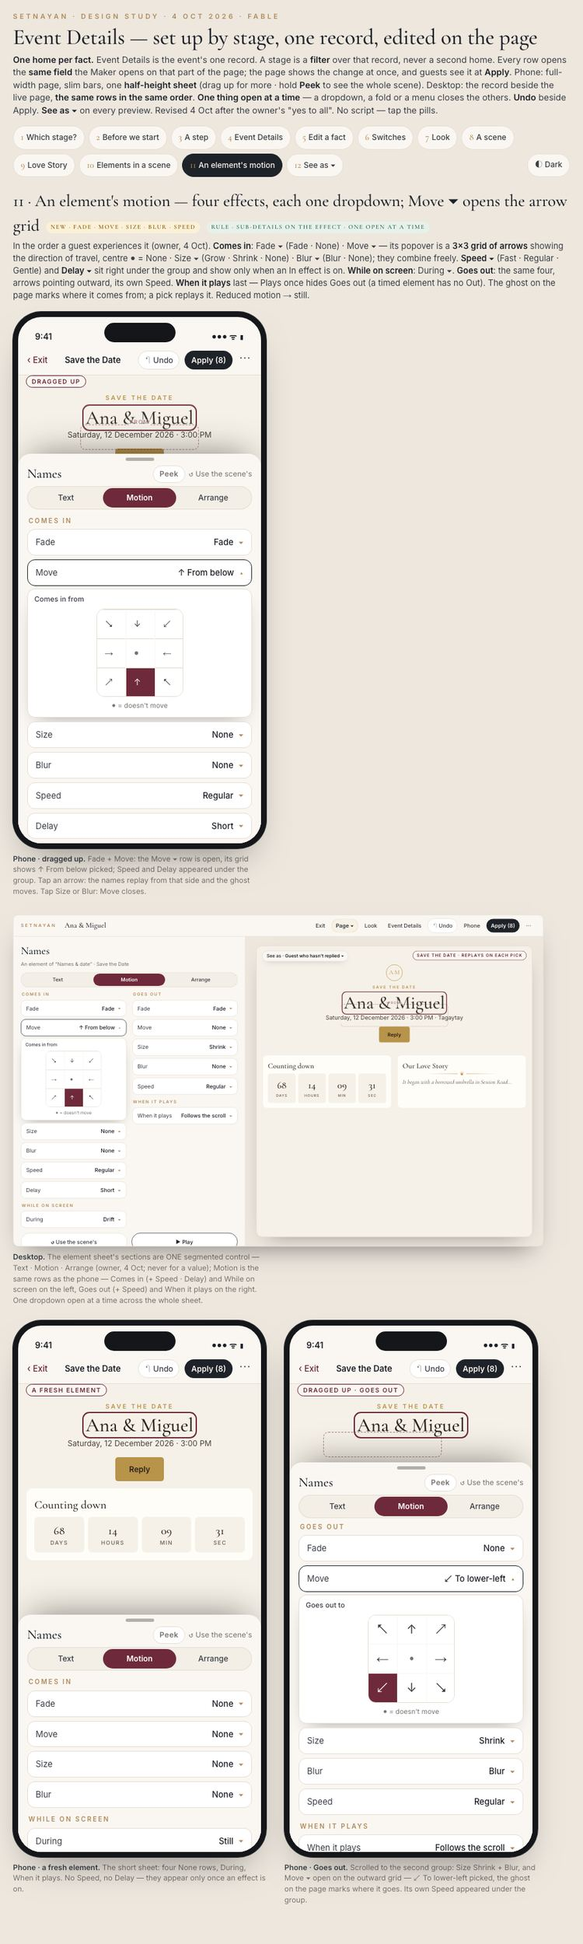
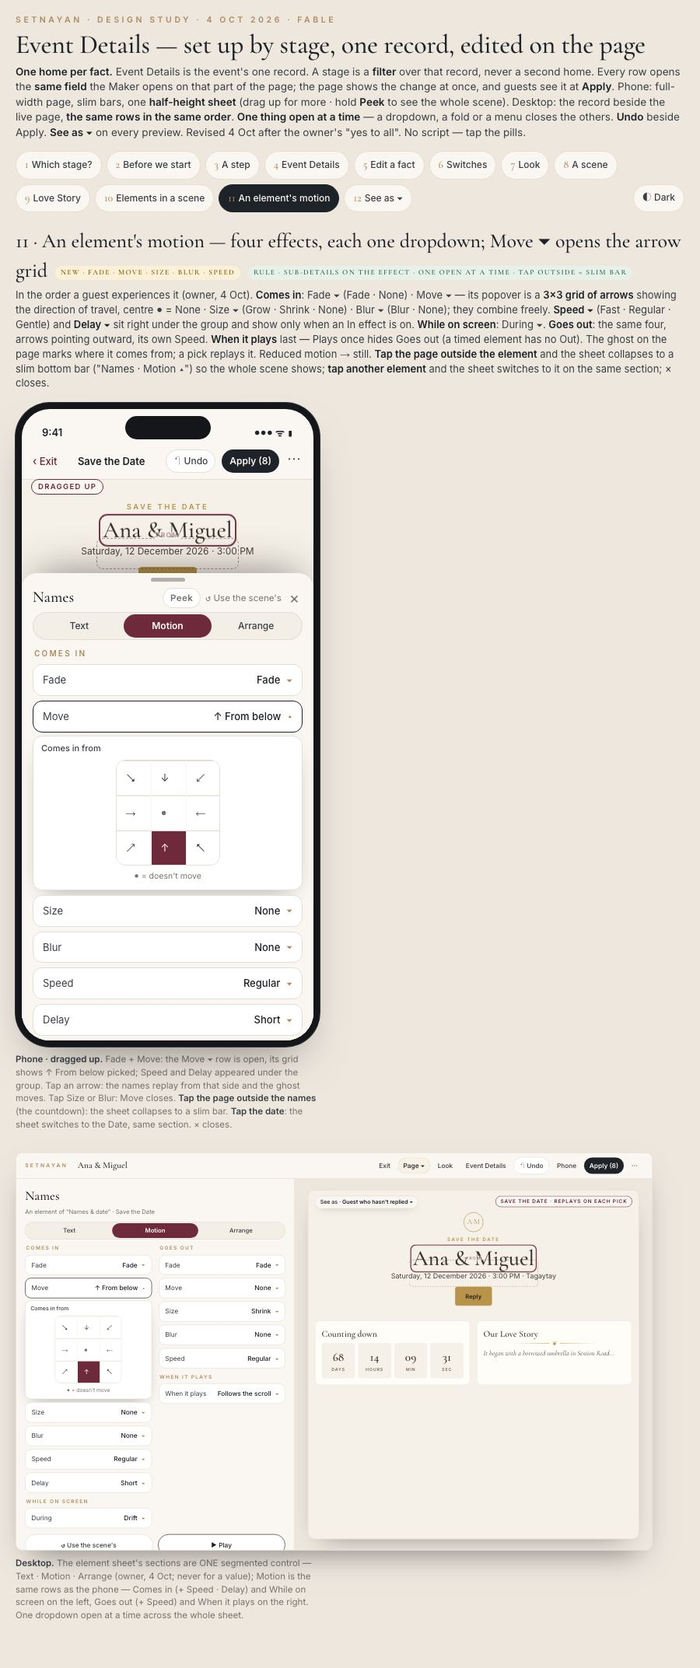
design: element sheet collapses to a slim bar on tap-outside, switches on tap of another element; screen 11 images split

Changed region(s): [[0.0, 0.0, 0.9813, 0.9995]]

diff --git a/prototypes/event_details_improved_2026-10-04_fable.html b/prototypes/event_details_improved_2026-10-04_fable.html
@@ -83,6 +83,20 @@ h1{font-family:var(--serif);font-weight:500;font-size:34px;line-height:1.1;margi
 .mgrp{font-size:10px;letter-spacing:.22em;text-transform:uppercase;color:var(--gild);font-weight:600;margin:10px 2px 0}
 .mgrp:first-of-type{margin-top:4px}
 .outnote{font-size:12px;color:var(--mute);padding:8px 2px 0;font-style:italic}
+/* element sheet states (owner, 4 Oct): tap the page outside the element → the sheet collapses to a slim bottom bar ("Names · Motion ▴")
+   and the whole scene shows; tap another element → the sheet switches to it, same section; × closes. CSS-only: one radio group (es). */
+.cbar{display:none;position:absolute;left:0;right:0;bottom:0;z-index:7;background:var(--paper);border-top:1px solid var(--line);padding:10px 14px 26px;align-items:center;justify-content:space-between;font-size:13px;font-weight:500;box-shadow:0 -10px 30px -16px rgba(0,0,0,.4);border-radius:16px 16px 0 0}
+.cbar>label,.cbar>span{cursor:pointer}
+.cbar b{font-family:var(--serif);font-size:18px;font-weight:500}
+.cbar .x,.sheet .x{color:var(--mute);font-size:20px;line-height:1;padding:0 4px;cursor:pointer}
+.tapout{position:absolute;inset:0;cursor:pointer;z-index:2}
+.sheet.el2{display:none}
+#es0:checked ~ main .scr11 .sheet.el1,#es2:checked ~ main .scr11 .sheet.el1,#es3:checked ~ main .scr11 .sheet.el1{display:none}
+#es0:checked ~ main .scr11 .cbar{display:flex}
+#es2:checked ~ main .scr11 .sheet.el2{display:block}
+#es2:checked ~ main .scr11 .mo.sel,#es3:checked ~ main .scr11 .mo.sel{outline:none}
+#es2:checked ~ main .scr11 .mo .gh{opacity:0}
+#es2:checked ~ main .scr11 .dsel{outline:2px solid var(--wine);outline-offset:3px;border-radius:6px}
 .seg{display:flex;background:var(--paper2);border-radius:999px;padding:3px;margin:4px 0 6px;box-shadow:inset 0 0 0 1px var(--line)}
 .seg span{flex:1;text-align:center;font-size:12px;font-weight:500;padding:6px 8px;border-radius:999px;color:var(--ink2);cursor:pointer;min-height:30px}
 .seg span.on{background:var(--wine);color:#fff;font-weight:600}
@@ -455,6 +469,8 @@ h2{font-family:var(--serif);font-weight:500;font-size:26px;margin:0 0 4px;letter
 <input class="sw" type="radio" name="o6" id="o6-howguestsget"><input class="sw" type="radio" name="o7" id="o7-theme"><input class="sw" type="radio" name="o7" id="o7-font"><input class="sw" type="radio" name="o7" id="o7-buttonsnew"><input class="sw" type="radio" name="o7" id="o7-betweenscene"><input class="sw" type="radio" name="o8" id="o8-style"><input class="sw" type="radio" name="o8" id="o8-background"><input class="sw" type="radio" name="o8" id="o8-width"><input class="sw" type="radio" name="o8" id="o8-motion"><input class="sw" type="radio" name="o8" id="o8-intothenexts"><input class="sw" type="radio" name="o11" id="o11-fade"><input class="sw" type="radio" name="o11" id="o11-move" checked><input class="sw" type="radio" name="o11" id="o11-size"><input class="sw" type="radio" name="o11" id="o11-blur"><input class="sw" type="radio" name="o11" id="o11-spd"><input class="sw" type="radio" name="o11" id="o11-delay"><input class="sw" type="radio" name="o11" id="o11-during"><input class="sw" type="radio" name="o11" id="o11-ofade"><input class="sw" type="radio" name="o11" id="o11-omove"><input class="sw" type="radio" name="o11" id="o11-osize"><input class="sw" type="radio" name="o11" id="o11-oblur"><input class="sw" type="radio" name="o11" id="o11-ospd"><input class="sw" type="radio" name="o11" id="o11-when">
 <input class="sw" type="radio" name="dl" id="dl0"><input class="sw" type="radio" name="dl" id="dl1" checked><input class="sw" type="radio" name="dl" id="dl2"><input class="sw" type="radio" name="du" id="du1"><input class="sw" type="radio" name="du" id="du2" checked><input class="sw" type="radio" name="wp" id="wp1"><input class="sw" type="radio" name="wp" id="wp2" checked><input class="sw" type="radio" name="osp" id="osp1"><input class="sw" type="radio" name="osp" id="osp2" checked><input class="sw" type="radio" name="osp" id="osp3">
 <input class="sw" type="radio" name="o3" id="o3-0"><input class="sw" type="radio" name="o3" id="o3-ceremony" checked><input class="sw" type="radio" name="o5" id="o5-0"><input class="sw" type="radio" name="o5" id="o5-venue" checked>
+<!-- the element sheet: open · collapsed bar · switched to the Date · closed -->
+<input class="sw" type="radio" name="es" id="es1" checked><input class="sw" type="radio" name="es" id="es0"><input class="sw" type="radio" name="es" id="es2"><input class="sw" type="radio" name="es" id="es3">
 <!-- Event Details folds: one open at a time -->
 <input class="sw" type="radio" name="g4" id="g40"><input class="sw" type="radio" name="g4" id="g4l" checked><input class="sw" type="radio" name="g4" id="g4w"><input class="sw" type="radio" name="g4" id="g4e"><input class="sw" type="radio" name="g4" id="g4m">
 <!-- See as ▾ : the preview as one guest -->
@@ -1162,27 +1178,33 @@ h2{font-family:var(--serif);font-weight:500;font-size:26px;margin:0 0 4px;letter
 
 <!-- ============================== 11 · AN ELEMENT'S MOTION ============================== -->
 <section class="scr scr11">
-<h2>11 · An element's motion — four effects, each one dropdown; Move ▾ opens the arrow grid <span class="new">new · Fade · Move · Size · Blur · Speed</span> <span class="rl">rule · sub-details on the effect · one open at a time</span></h2>
-<p class="why">In the order a guest experiences it (owner, 4 Oct). <b>Comes in</b>: Fade ▾ (Fade · None) · Move ▾ — its popover is a <b>3×3 grid of arrows</b> showing the direction of travel, centre ● = None · Size ▾ (Grow · Shrink · None) · Blur ▾ (Blur · None); they combine freely. <b>Speed ▾</b> (Fast · Regular · Gentle) and <b>Delay ▾</b> sit right under the group and show only when an In effect is on. <b>While on screen</b>: During ▾. <b>Goes out</b>: the same four, arrows pointing outward, its own Speed. <b>When it plays</b> last — Plays once hides Goes out (a timed element has no Out). The ghost on the page marks where it comes from; a pick replays it. Reduced motion → still.</p>
+<h2>11 · An element's motion — four effects, each one dropdown; Move ▾ opens the arrow grid <span class="new">new · Fade · Move · Size · Blur · Speed</span> <span class="rl">rule · sub-details on the effect · one open at a time · tap outside = slim bar</span></h2>
+<p class="why">In the order a guest experiences it (owner, 4 Oct). <b>Comes in</b>: Fade ▾ (Fade · None) · Move ▾ — its popover is a <b>3×3 grid of arrows</b> showing the direction of travel, centre ● = None · Size ▾ (Grow · Shrink · None) · Blur ▾ (Blur · None); they combine freely. <b>Speed ▾</b> (Fast · Regular · Gentle) and <b>Delay ▾</b> sit right under the group and show only when an In effect is on. <b>While on screen</b>: During ▾. <b>Goes out</b>: the same four, arrows pointing outward, its own Speed. <b>When it plays</b> last — Plays once hides Goes out (a timed element has no Out). The ghost on the page marks where it comes from; a pick replays it. Reduced motion → still. <b>Tap the page outside the element</b> and the sheet collapses to a slim bottom bar ("Names · Motion ▴") so the whole scene shows; <b>tap another element</b> and the sheet switches to it on the same section; × closes.</p>
 <div class="pair">
 <div>
 <div class="ph"><div class="isl"></div><div class="st"><span>9:41</span><span>●●● ᯤ ▮</span></div>
   <div class="bar"><span class="bk">‹ Exit</span><span class="ti">Save the Date</span><span class="und">↶ Undo</span><span class="ap">Apply (8)</span><span class="more">⋯</span></div>
   <span class="statetag" style="top:96px">dragged up</span>
   <div class="cv" style="height:calc(100% - 46px - 41px)">
-    <div class="hero" style="padding:28px 16px 10px"><div class="ey">Save the date</div><div class="nm el sel mo">Ana &amp; Miguel<span class="gh"></span></div><div class="dl">Saturday, 12 December 2026 · <span class="tmv tm1">2:00 PM</span><span class="tmv tm2">3:00 PM</span><span class="tmv tm3">3:30 PM</span><span class="tmv tm4">4:00 PM</span></div><div class="rb needreply">Reply</div></div>
-    <div class="sc cdscene"><div class="t">Counting down</div><div class="tiles"><b>68<small>days</small></b><b>14<small>hours</small></b><b>09<small>min</small></b><b>31<small>sec</small></b></div></div>
+    <div class="hero" style="padding:28px 16px 10px"><div class="ey">Save the date</div><div class="nm el sel mo">Ana &amp; Miguel<span class="gh"></span></div><div class="dl"><label class="el dsel" for="es2" title="Tap another element: the sheet switches to it">Saturday, 12 December 2026</label> · <span class="tmv tm1">2:00 PM</span><span class="tmv tm2">3:00 PM</span><span class="tmv tm3">3:30 PM</span><span class="tmv tm4">4:00 PM</span></div><div class="rb needreply">Reply</div></div>
+    <div class="sc cdscene" style="position:relative"><label class="tapout" for="es0" aria-label="Tap the page outside the element"></label><div class="t">Counting down</div><div class="tiles"><b>68<small>days</small></b><b>14<small>hours</small></b><b>09<small>min</small></b><b>31<small>sec</small></b></div></div>
+    <div class="sc" style="position:relative"><label class="tapout" for="es0" aria-label="Tap the page outside the element"></label><div class="t">Our Love Story</div><div class="orn"></div><div class="teaser">It began with a borrowed umbrella in Session Road…</div></div>
   </div>
-  <div class="sheet up">
+  <div class="cbar"><label for="es1"><b>Names</b> · Motion ▴</label><label class="x" for="es3" aria-label="Close">×</label></div>
+  <div class="sheet el2">
     <div class="grip"></div>
-    <div class="h"><b>Names</b><span class="hr"><span class="peek">Peek</span><span class="reset">↺ Use the scene's</span></span></div><div class="seg" role="tablist"><span>Text</span><span class="on">Motion</span><span>Arrange</span></div>
+    <div class="h"><b>Date</b><span class="hr"><span class="peek">Peek</span><span class="reset">↺ Use the scene's</span><label class="x" for="es3" aria-label="Close">×</label></span></div><div class="seg" role="tablist"><span>Text</span><span class="on">Motion</span><span>Arrange</span></div><div class="mgrp">Comes in</div><div class="dd"><span class="sum"><span class="l">Fade</span><span class="v">None</span></span></div><div class="dd"><span class="sum"><span class="l">Move</span><span class="v">None</span></span></div><div class="dd"><span class="sum"><span class="l">Size</span><span class="v">None</span></span></div><div class="dd"><span class="sum"><span class="l">Blur</span><span class="v">None</span></span></div><div class="mgrp">While on screen</div><div class="dd"><span class="sum"><span class="l">During</span><span class="v">Still</span></span></div><div class="mgrp">When it plays</div><div class="dd"><span class="sum"><span class="l">When it plays</span><span class="v">Follows the scroll</span></span></div>
+  </div>
+  <div class="sheet up el1">
+    <div class="grip"></div>
+    <div class="h"><b>Names</b><span class="hr"><span class="peek">Peek</span><span class="reset">↺ Use the scene's</span><label class="x" for="es3" aria-label="Close">×</label></span></div><div class="seg" role="tablist"><span>Text</span><span class="on">Motion</span><span>Arrange</span></div>
     <div class="mgrp">Comes in</div><div class="dd fade "><label class="sum" for="o11-fade"><span class="l">Fade</span><span class="v"><span class="mfv mf1">Fade</span><span class="mfv mf0">None</span></span></label><label class="sum cl" for="o11-0"><span class="l">Fade</span><span class="v"><span class="mfv mf1">Fade</span><span class="mfv mf0">None</span></span></label><div class="menu"><label for="mf1">Fade<span class="tick">✓</span></label><label for="mf0">None<span class="tick">✓</span></label></div></div><div class="dd move "><label class="sum" for="o11-move"><span class="l">Move</span><span class="v"><span class="mdv md0">None</span><span class="mdv md1">↘ From top-left</span><span class="mdv md2">↓ From above</span><span class="mdv md3">↙ From top-right</span><span class="mdv md4">→ From left</span><span class="mdv md5">← From right</span><span class="mdv md6">↗ From lower-left</span><span class="mdv md7">↑ From below</span><span class="mdv md8">↖ From lower-right</span></span></label><label class="sum cl" for="o11-0"><span class="l">Move</span><span class="v"><span class="mdv md0">None</span><span class="mdv md1">↘ From top-left</span><span class="mdv md2">↓ From above</span><span class="mdv md3">↙ From top-right</span><span class="mdv md4">→ From left</span><span class="mdv md5">← From right</span><span class="mdv md6">↗ From lower-left</span><span class="mdv md7">↑ From below</span><span class="mdv md8">↖ From lower-right</span></span></label><div class="menu"><div class="gw"><div class="gt">Comes in from</div><div class="dsq in"><label for="md1" class="" aria-label="↘ From top-left">↘</label><label for="md2" class="" aria-label="↓ From above">↓</label><label for="md3" class="" aria-label="↙ From top-right">↙</label><label for="md4" class="" aria-label="→ From left">→</label><label for="md0" class="c" aria-label="None">●</label><label for="md5" class="" aria-label="← From right">←</label><label for="md6" class="" aria-label="↗ From lower-left">↗</label><label for="md7" class="" aria-label="↑ From below">↑</label><label for="md8" class="" aria-label="↖ From lower-right">↖</label></div><div class="gn">● = doesn't move</div></div></div></div><div class="dd size "><label class="sum" for="o11-size"><span class="l">Size</span><span class="v"><span class="msv ms0">None</span><span class="msv ms1">Grow</span><span class="msv ms2">Shrink</span></span></label><label class="sum cl" for="o11-0"><span class="l">Size</span><span class="v"><span class="msv ms0">None</span><span class="msv ms1">Grow</span><span class="msv ms2">Shrink</span></span></label><div class="menu"><label for="ms1">Grow<span class="tick">✓</span></label><label for="ms2">Shrink<span class="tick">✓</span></label><label for="ms0">None<span class="tick">✓</span></label></div></div><div class="dd blur "><label class="sum" for="o11-blur"><span class="l">Blur</span><span class="v"><span class="mbv mb0">None</span><span class="mbv mb1">Blur</span></span></label><label class="sum cl" for="o11-0"><span class="l">Blur</span><span class="v"><span class="mbv mb0">None</span><span class="mbv mb1">Blur</span></span></label><div class="menu"><label for="mb1">Blur<span class="tick">✓</span></label><label for="mb0">None<span class="tick">✓</span></label></div></div><div class="inx"><div class="dd spd "><label class="sum" for="o11-spd"><span class="l">Speed</span><span class="v"><span class="spv sp1">Fast</span><span class="spv sp2">Regular</span><span class="spv sp3">Gentle</span></span></label><label class="sum cl" for="o11-0"><span class="l">Speed</span><span class="v"><span class="spv sp1">Fast</span><span class="spv sp2">Regular</span><span class="spv sp3">Gentle</span></span></label><div class="menu"><label for="sp1">Fast<span class="tick">✓</span></label><label for="sp2">Regular<span class="tick">✓</span></label><label for="sp3">Gentle <small>slow, eased</small><span class="tick">✓</span></label></div></div><div class="dd delay "><label class="sum" for="o11-delay"><span class="l">Delay</span><span class="v"><span class="dlv dl0">None</span><span class="dlv dl1">Short</span><span class="dlv dl2">Long</span></span></label><label class="sum cl" for="o11-0"><span class="l">Delay</span><span class="v"><span class="dlv dl0">None</span><span class="dlv dl1">Short</span><span class="dlv dl2">Long</span></span></label><div class="menu"><label for="dl0">None<span class="tick">✓</span></label><label for="dl1">Short<span class="tick">✓</span></label><label for="dl2">Long<span class="tick">✓</span></label></div></div></div>
     <div class="mgrp">While on screen</div><div class="dd during "><label class="sum" for="o11-during"><span class="l">During</span><span class="v"><span class="duv du1">Still</span><span class="duv du2">Drift</span></span></label><label class="sum cl" for="o11-0"><span class="l">During</span><span class="v"><span class="duv du1">Still</span><span class="duv du2">Drift</span></span></label><div class="menu"><label for="du1">Still<span class="tick">✓</span></label><label for="du2">Drift<span class="tick">✓</span></label><label><small>Ken Burns · Parallax — photos only</small></label></div></div>
     <div class="outg"><div class="mgrp">Goes out</div><div class="dd ofade "><label class="sum" for="o11-ofade"><span class="l">Fade</span><span class="v"><span class="ofv of1">Fade</span><span class="ofv of0">None</span></span></label><label class="sum cl" for="o11-0"><span class="l">Fade</span><span class="v"><span class="ofv of1">Fade</span><span class="ofv of0">None</span></span></label><div class="menu"><label for="of1">Fade<span class="tick">✓</span></label><label for="of0">None<span class="tick">✓</span></label></div></div><div class="dd omove "><label class="sum" for="o11-omove"><span class="l">Move</span><span class="v"><span class="odv od0">None</span><span class="odv od1">↖ To top-left</span><span class="odv od2">↑ To above</span><span class="odv od3">↗ To top-right</span><span class="odv od4">← To left</span><span class="odv od5">→ To right</span><span class="odv od6">↙ To lower-left</span><span class="odv od7">↓ To below</span><span class="odv od8">↘ To lower-right</span></span></label><label class="sum cl" for="o11-0"><span class="l">Move</span><span class="v"><span class="odv od0">None</span><span class="odv od1">↖ To top-left</span><span class="odv od2">↑ To above</span><span class="odv od3">↗ To top-right</span><span class="odv od4">← To left</span><span class="odv od5">→ To right</span><span class="odv od6">↙ To lower-left</span><span class="odv od7">↓ To below</span><span class="odv od8">↘ To lower-right</span></span></label><div class="menu"><div class="gw"><div class="gt">Goes out to</div><div class="dsq out"><label for="od1" class="" aria-label="↖ To top-left">↖</label><label for="od2" class="" aria-label="↑ To above">↑</label><label for="od3" class="" aria-label="↗ To top-right">↗</label><label for="od4" class="" aria-label="← To left">←</label><label for="od0" class="c" aria-label="None">●</label><label for="od5" class="" aria-label="→ To right">→</label><label for="od6" class="" aria-label="↙ To lower-left">↙</label><label for="od7" class="" aria-label="↓ To below">↓</label><label for="od8" class="" aria-label="↘ To lower-right">↘</label></div><div class="gn">● = doesn't move</div></div></div></div><div class="dd osize "><label class="sum" for="o11-osize"><span class="l">Size</span><span class="v"><span class="osv os0">None</span><span class="osv os1">Grow</span><span class="osv os2">Shrink</span></span></label><label class="sum cl" for="o11-0"><span class="l">Size</span><span class="v"><span class="osv os0">None</span><span class="osv os1">Grow</span><span class="osv os2">Shrink</span></span></label><div class="menu"><label for="os1">Grow<span class="tick">✓</span></label><label for="os2">Shrink<span class="tick">✓</span></label><label for="os0">None<span class="tick">✓</span></label></div></div><div class="dd oblur "><label class="sum" for="o11-oblur"><span class="l">Blur</span><span class="v"><span class="obv ob0">None</span><span class="obv ob1">Blur</span></span></label><label class="sum cl" for="o11-0"><span class="l">Blur</span><span class="v"><span class="obv ob0">None</span><span class="obv ob1">Blur</span></span></label><div class="menu"><label for="ob1">Blur<span class="tick">✓</span></label><label for="ob0">None<span class="tick">✓</span></label></div></div><div class="outx"><div class="dd ospd "><label class="sum" for="o11-ospd"><span class="l">Speed</span><span class="v"><span class="ospv osp1">Fast</span><span class="ospv osp2">Regular</span><span class="ospv osp3">Gentle</span></span></label><label class="sum cl" for="o11-0"><span class="l">Speed</span><span class="v"><span class="ospv osp1">Fast</span><span class="ospv osp2">Regular</span><span class="ospv osp3">Gentle</span></span></label><div class="menu"><label for="osp1">Fast<span class="tick">✓</span></label><label for="osp2">Regular<span class="tick">✓</span></label><label for="osp3">Gentle <small>slow, eased</small><span class="tick">✓</span></label></div></div></div></div><div class="outnote">Goes out — follows the scroll only</div>
     <div class="mgrp">When it plays</div><div class="dd when "><label class="sum" for="o11-when"><span class="l">When it plays</span><span class="v"><span class="wpv wp1">Plays once</span><span class="wpv wp2">Follows the scroll</span></span></label><label class="sum cl" for="o11-0"><span class="l">When it plays</span><span class="v"><span class="wpv wp1">Plays once</span><span class="wpv wp2">Follows the scroll</span></span></label><div class="menu"><label for="wp1">Plays once <small>on arrival; no Goes out</small><span class="tick">✓</span></label><label for="wp2">Follows the scroll <small>in as it scrolls in, out as it scrolls out</small><span class="tick">✓</span></label></div></div>
   </div>
 </div>
-<p class="cap"><b>Phone · dragged up.</b> Fade + Move: the Move ▾ row is open, its grid shows ↑ From below picked; Speed and Delay appeared under the group. Tap an arrow: the names replay from that side and the ghost moves. Tap Size or Blur: Move closes.</p>
+<p class="cap"><b>Phone · dragged up.</b> Fade + Move: the Move ▾ row is open, its grid shows ↑ From below picked; Speed and Delay appeared under the group. Tap an arrow: the names replay from that side and the ghost moves. Tap Size or Blur: Move closes. <b>Tap the page outside the names</b> (the countdown): the sheet collapses to a slim bar. <b>Tap the date</b>: the sheet switches to the Date, same section. × closes.</p>
 </div>
 <div>
 <div class="dtw"><div class="dt">
@@ -1235,6 +1257,29 @@ h2{font-family:var(--serif);font-weight:500;font-size:26px;margin:0 0 4px;letter
   </div>
 </div>
 <p class="cap"><b>Phone · Goes out.</b> Scrolled to the second group: Size Shrink + Blur, and Move ▾ open on the outward grid — ↙ To lower-left picked, the ghost on the page marks where it goes. Its own Speed appeared under the group.</p>
+</div>
+</div>
+<div class="pair" style="margin-top:22px">
+<div>
+<div class="ph"><div class="isl"></div><div class="st"><span>9:41</span><span>●●● ᯤ ▮</span></div>
+  <div class="bar"><span class="bk">‹ Exit</span><span class="ti">Save the Date</span><span class="und">↶ Undo</span><span class="ap">Apply (8)</span><span class="more">⋯</span></div>
+  <span class="statetag">collapsed · tapped outside</span>
+  <div class="cv" style="height:calc(100% - 46px - 41px)"><div class="hero" style="padding:28px 16px 10px"><div class="ey">Save the date</div><div class="nm el sel">Ana &amp; Miguel</div><div class="dl">Saturday, 12 December 2026 · 3:00 PM</div><div class="rb">Reply</div></div><div class="sc"><div class="t">Counting down</div><div class="tiles"><b>68<small>days</small></b><b>14<small>hours</small></b><b>09<small>min</small></b><b>31<small>sec</small></b></div></div><div class="sc"><div class="t">Our Love Story</div><div class="orn"></div><div class="teaser">It began with a borrowed umbrella in Session Road…</div></div></div>
+  <div class="cbar" style="display:flex"><span><b>Names</b> · Motion ▴</span><span class="x">×</span></div>
+</div>
+<p class="cap"><b>Phone · collapsed.</b> The host tapped the page outside the names: the sheet folds to a slim bar — "Names · Motion ▴" — and the whole scene shows with the change in it. Tap the bar: the sheet is back where it was. × closes it.</p>
+</div>
+<div>
+<div class="ph"><div class="isl"></div><div class="st"><span>9:41</span><span>●●● ᯤ ▮</span></div>
+  <div class="bar"><span class="bk">‹ Exit</span><span class="ti">Save the Date</span><span class="und">↶ Undo</span><span class="ap">Apply (8)</span><span class="more">⋯</span></div>
+  <span class="statetag">switched · tapped the date</span>
+  <div class="cv" style="height:calc(100% - 46px - 41px)"><div class="hero" style="padding:28px 16px 10px"><div class="ey">Save the date</div><div class="nm">Ana &amp; Miguel</div><div class="dl"><span class="el dsel" style="outline:2px solid var(--wine);outline-offset:3px;border-radius:6px">Saturday, 12 December 2026</span> · 3:00 PM</div><div class="rb">Reply</div></div><div class="sc"><div class="t">Counting down</div><div class="tiles"><b>68<small>days</small></b><b>14<small>hours</small></b><b>09<small>min</small></b><b>31<small>sec</small></b></div></div><div class="sc"><div class="t">Our Love Story</div><div class="orn"></div><div class="teaser">It began with a borrowed umbrella in Session Road…</div></div></div>
+  <div class="sheet">
+    <div class="grip"></div>
+    <div class="h"><b>Date</b><span class="hr"><span class="peek">Peek</span><span class="reset">↺ Use the scene's</span><span class="x">×</span></span></div><div class="seg" role="tablist"><span>Text</span><span class="on">Motion</span><span>Arrange</span></div><div class="mgrp">Comes in</div><div class="dd"><span class="sum"><span class="l">Fade</span><span class="v">None</span></span></div><div class="dd"><span class="sum"><span class="l">Move</span><span class="v">None</span></span></div><div class="dd"><span class="sum"><span class="l">Size</span><span class="v">None</span></span></div><div class="dd"><span class="sum"><span class="l">Blur</span><span class="v">None</span></span></div><div class="mgrp">While on screen</div><div class="dd"><span class="sum"><span class="l">During</span><span class="v">Still</span></span></div><div class="mgrp">When it plays</div><div class="dd"><span class="sum"><span class="l">When it plays</span><span class="v">Follows the scroll</span></span></div>
+  </div>
+</div>
+<p class="cap"><b>Phone · switched.</b> With the sheet open, the host tapped another element — the date. The sheet switches to it, on the same section (Motion), the ring moves, and the date's own rows show (a fresh element: all None).</p>
 </div>
 </div>
 </section>

diff --git a/EVENT_DETAILS_STUDY_2026-10-04_fable.md b/EVENT_DETAILS_STUDY_2026-10-04_fable.md
@@ -2,7 +2,7 @@
 
 **Owner's ask (4 Oct, verbatim):** *"The Event Details — these are the basic setup needed like picking a theme, colors, fonts, button styles, transition styles, guestlist rules, toggles if needs and rsvp or not, etc and information needed like event date, venue, time, schedule, love story. I need you to study these concepts and create an improved approach for both desktop and mobile view."* — plus, same day: scenes are groups of elements; each scene can be customised (background · framed/full width · animation in/during/out · transition · fonts · colours · button); every text, image and design on a scene is editable; element In animations combine; *"Themes has different scenes, each scene has different element. Theme covers the overall rules. Scenes are like themes but for a smaller scale. Elements are now more customization."*
 
-**Prototype:** `prototypes/event_details_improved_2026-10-04_fable.html` (12 screens, phone 375 + desktop 1280 scaled, light + dark, **zero `<script>`**) · screenshots `…_fable-1.jpg … -13.jpg` (1–12 = the screens, 13 = screen 8 in dark).
+**Prototype:** `prototypes/event_details_improved_2026-10-04_fable.html` (12 screens, phone 375 + desktop 1280 scaled, light + dark, **zero `<script>`**) · screenshots `…_fable-1.jpg … -14.jpg` (1–10 = screens 1–10 · 11 = screen 11's sheet + desktop · 12 = screen 11's four state phones (fresh · Goes out · collapsed · switched) · 13 = screen 12 See as · 14 = screen 8 in dark).
 
 **Revised the same day, after the owner's "yes to all" (DECISION_LOG 2026-10-04 "EVENT DETAILS / MAKER: FOUR FIXES BEFORE BUILD") and his rulings on the motion sheet.** What changed, in one line each — the rows are in § 6 (#17–#25) and the build plan in § 7:
 1. **The phone sheet is HALF the screen** (~45 %); the edited scene is scrolled into view above it; the grab handle drags it up for more rows; **Peek** (press-and-hold in the sheet's header) hides the sheet to show the whole scene (screen 8: half · dragged up · Peek).
@@ -13,6 +13,7 @@
 6. **One thing open at a time** (owner: *"when a dropdown opens, the other dropdown collapses"*) — every dropdown, fold and menu on a screen is a value of ONE open-state; opening one closes the rest. In the prototype that is one radio group per screen (`oN-…` + `oN-0` = nothing open).
 7. **An element's motion is four independent effects, each one dropdown with None** — Fade · Move · Size · Blur — in the order a guest experiences it, with each sub-detail directly under its effect and visible only when that effect is on; **Move ▾ opens a 3×3 grid of ARROWS** (direction of travel; centre ● = None); **Speed ▾** = Fast · Regular · Gentle (a dropdown, not a slider); **When it plays** last. The earlier "checklist inside one dropdown" drawing is withdrawn (screen 11).
 8. **Sections of a panel are ONE segmented control** (wine fill, max 3 on the phone; never for a value): the element sheet = **Text · Motion · Arrange**. The scene sheet stays rows, no sections (screen 11).
+9. **The element sheet gets out of the way**: tap the page outside the element and it collapses to a slim bottom bar ("Names · Motion ▴") with the whole scene showing; tap another element and the sheet switches to it on the same section; × closes (screen 11, collapsed + switched phones).
 
 **Measured on `origin/main` at `a08b7e9bfa`** (worktree `wt-read-details`, removed after). Every anchor is a greppable symbol or a command, never a line number. RULE 0: nothing below is a new screen — every frame starts from an approved design or a shipped component and shows only what **MOVES**, a **RULE**, or what is **NEW**.
 
@@ -185,6 +186,7 @@ Legend: **T** texts typed in place today · **I** images tappable today · **D**
 | 23 | **Speed is a dropdown** (Fast · Regular · Gentle), not a slider | RULE | `duration` quick · normal · slow | screen 11 | a slider is fiddly at 375 px; every other choice is a dropdown |
 | 24 | **Sections of a panel = ONE segmented control** (wine fill, max 3 on the phone; never for a value); element sheet = Text · Motion · Arrange | RULE · MOVED | `element-sheet.tsx` tabs Font · Colour · Size · Motion | screen 11; the scene sheet stays rows with no sections | owner 4 Oct: "segmented control" |
 | 25 | **When it plays** (Plays once · Follows the scroll) is the LAST row; Plays once hides Goes out with a one-line note | RULE | `timeline` on the element | screen 11 | it changes how In and Out behave |
+| 26 | **Element sheet: tap outside → a slim bottom bar** ("Names · Motion ▴", the whole scene shows); **tap another element → the sheet switches to it**, same section; × closes | NEW · RULE | `element-sheet.tsx` closes on tap-outside | screen 11 (collapsed · switched phones); prototype = radio group `es` | owner 4 Oct |
 
 ---
 
@@ -200,6 +202,8 @@ Legend: **T** texts typed in place today · **I** images tappable today · **D**
 **PR-6 · Scene sheet = rows on EVERY device + Text style shortcut.** `scene-inspector.tsx`: the Format · Animate · Arrange · Content tab row is removed on phone and desktop alike; one order — Style · Background · Width · Motion · Into the next scene · Text style · Shown · Move (screen 8); mounted in PR-0's half sheet on the phone. `canvas.textStyle` applies the element defaults to every element of the scene (an element's own value still wins; ↺ clears). Guard: `a-scene-sheet-has-no-tab-row.test.ts` (both breakpoints — the calm-audit PR-C guard widened from `lg` to all).
 **PR-7 · Elements: hide + add.** Storage without a new table: `invitation_widgets.config_json.canvas.elements` = `{ hidden: HubElementKey[], added: Array<{id, kind: 'text'|'photo'|'button'|'divider', text?, mediaRef?, slot}> }` (closed kinds; `slot` = where in the Style's layout; media by ref, never a URL from input). A hidden element is ghosted in the canvas (`?editor=1`) and not rendered for guests. Guards: NEW `a-hidden-element-is-absent-for-guests.test.ts`, `added-elements-are-closed-kinds.test.ts`.
 **PR-8 · One motion vocabulary (the owner's shape).** `element-style.ts`: `HubElementMotion.in` becomes `{ fade?: true, move?: Direction8, size?: 'grow' | 'shrink', blur?: true, speed?: 'fast' | 'gentle', delay?: 'short' | 'long' }` (absent = none / Regular; `Direction8` = the four sides + four corners), `out` the same shape; `during` and `timeline` (`plays: 'once' | 'scroll'`) as shipped; `hub-canvas.ts` `HUB_IN`/`HUB_OUT` extended with grow/shrink and the four corners in `HUB_DIRECTIONS` so scenes share it. **The element sheet (Motion segment)** draws it in guest order: Comes in — Fade ▾ · Move ▾ (its PickMenu popover is the **3×3 arrow grid**, arrows = direction of travel, ● = None, 44-px cells) · Size ▾ · Blur ▾, then Speed ▾ · Delay ▾ **only when an In effect is on**; While on screen — During ▾; Goes out — the same four (outward arrows) + its Speed ▾; **When it plays ▾ last** (Plays once hides Goes out with the note "Goes out — follows the scroll only"). A fresh element = the short sheet. Each effect maps to its own keyframe NAME (`animation-name` list: fade · move-<dir> · grow/shrink · blur) on `opacity` · `translate` · `scale` · `filter`, composed as four animations with one duration (the prototype's `.mo` block is the shape) so a pick replays; the canvas draws a dashed ghost at the picked point. Reduced motion → still. Guards: NEW `motion-keys-are-a-closed-set.test.ts` (the five keys, eight directions, three speeds) · `speed-is-a-dropdown-not-a-slider.test.ts` · `plays-once-has-no-out.test.ts`; `the-motion-reaches-the-guest.test.ts` extended.
+
+**PR-8a · The element sheet gets out of the way.** `element-sheet.tsx`: a tap on the canvas outside the element no longer closes the sheet — it **collapses to a slim bottom bar** ("<element> · <section> ▴"; tap = reopen at the height it had; × = close); a tap on another element **switches the sheet to it on the same section** (the open-section key survives the switch); the ring follows. Guards: NEW `tap-outside-collapses-not-closes.test.ts` · `switching-elements-keeps-the-section.test.ts`.
 
 **PR-8b · Segmented control.** One shared `SegmentedControl` (rounded track, selected segment in wine with white text, ≤ 3 segments on the phone) replaces the tab rows wherever a panel has sections — first the element sheet (`element-sheet.tsx`: **Text · Motion · Arrange**, folding Font · Colour · Size into Text). Never used to pick a value (values stay PickMenus). Guard: NEW `sections-are-one-segmented-control.test.ts` (no `role="tablist"` pill row outside the component; no value-pick inside one).
 **PR-9 · Content taps.** Photo tap → Replace · Focus · Remove through `scene-background-row.tsx`'s controls; Love Story heading and the countdown label join `SCENE_TYPE_FIELDS`; old `/website/*` editor pages redirect (calm audit PR-F). Guards: `the-print-only-words-are-tappable.test.ts` style, extended.
